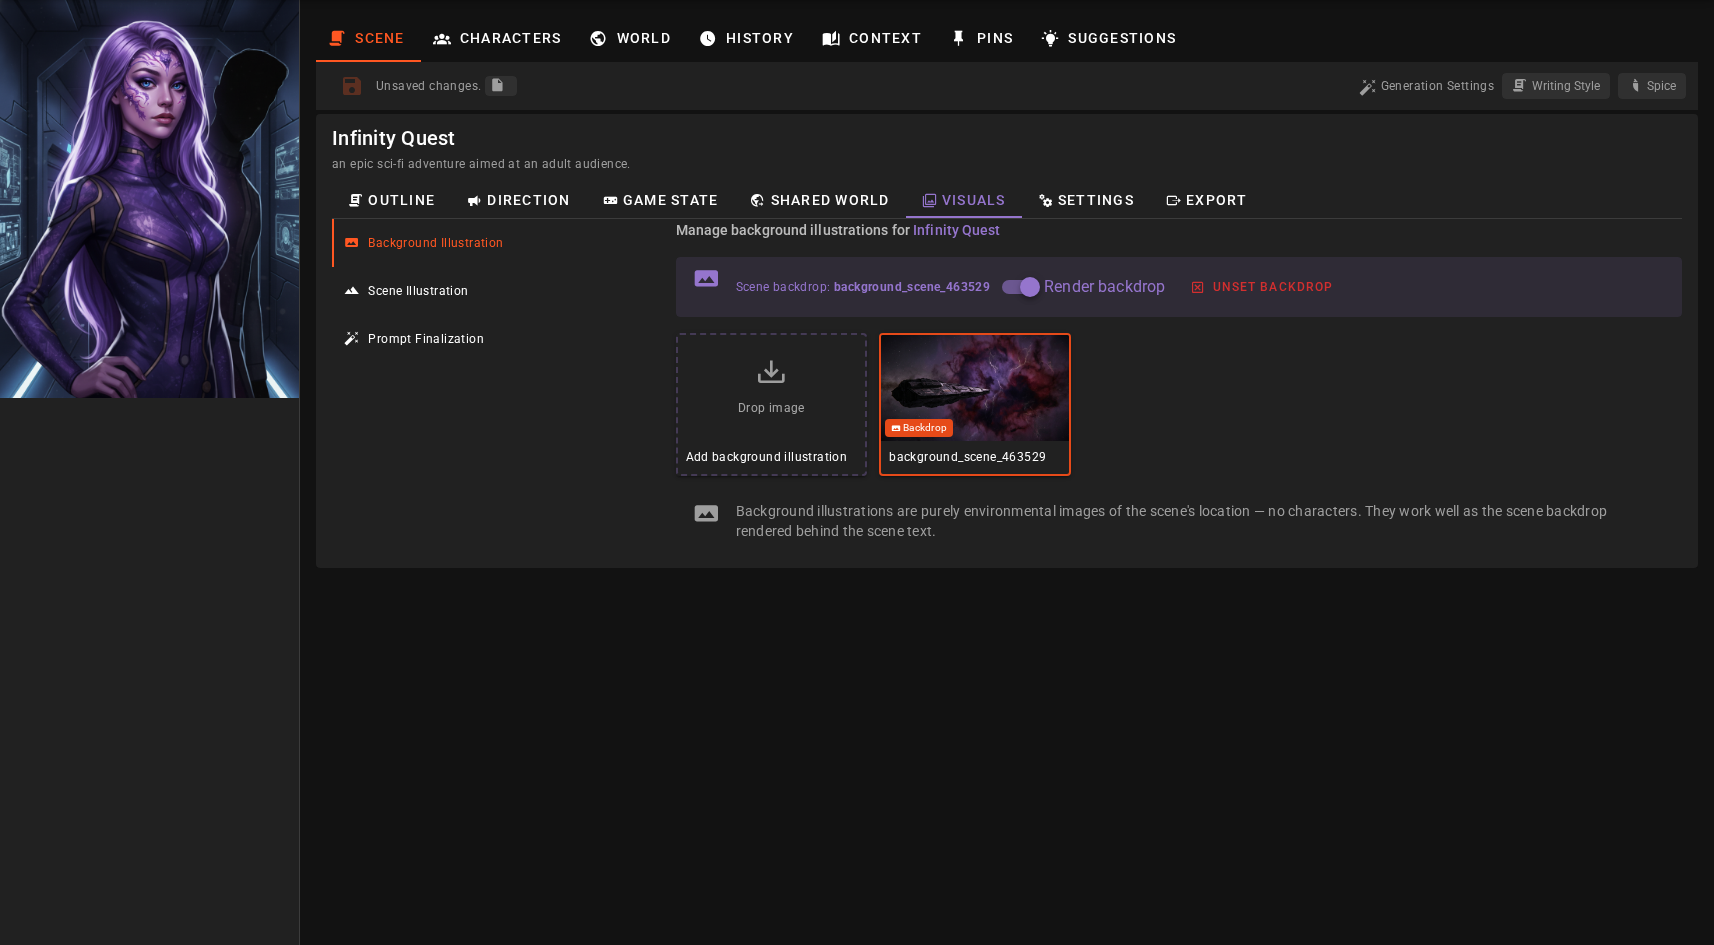
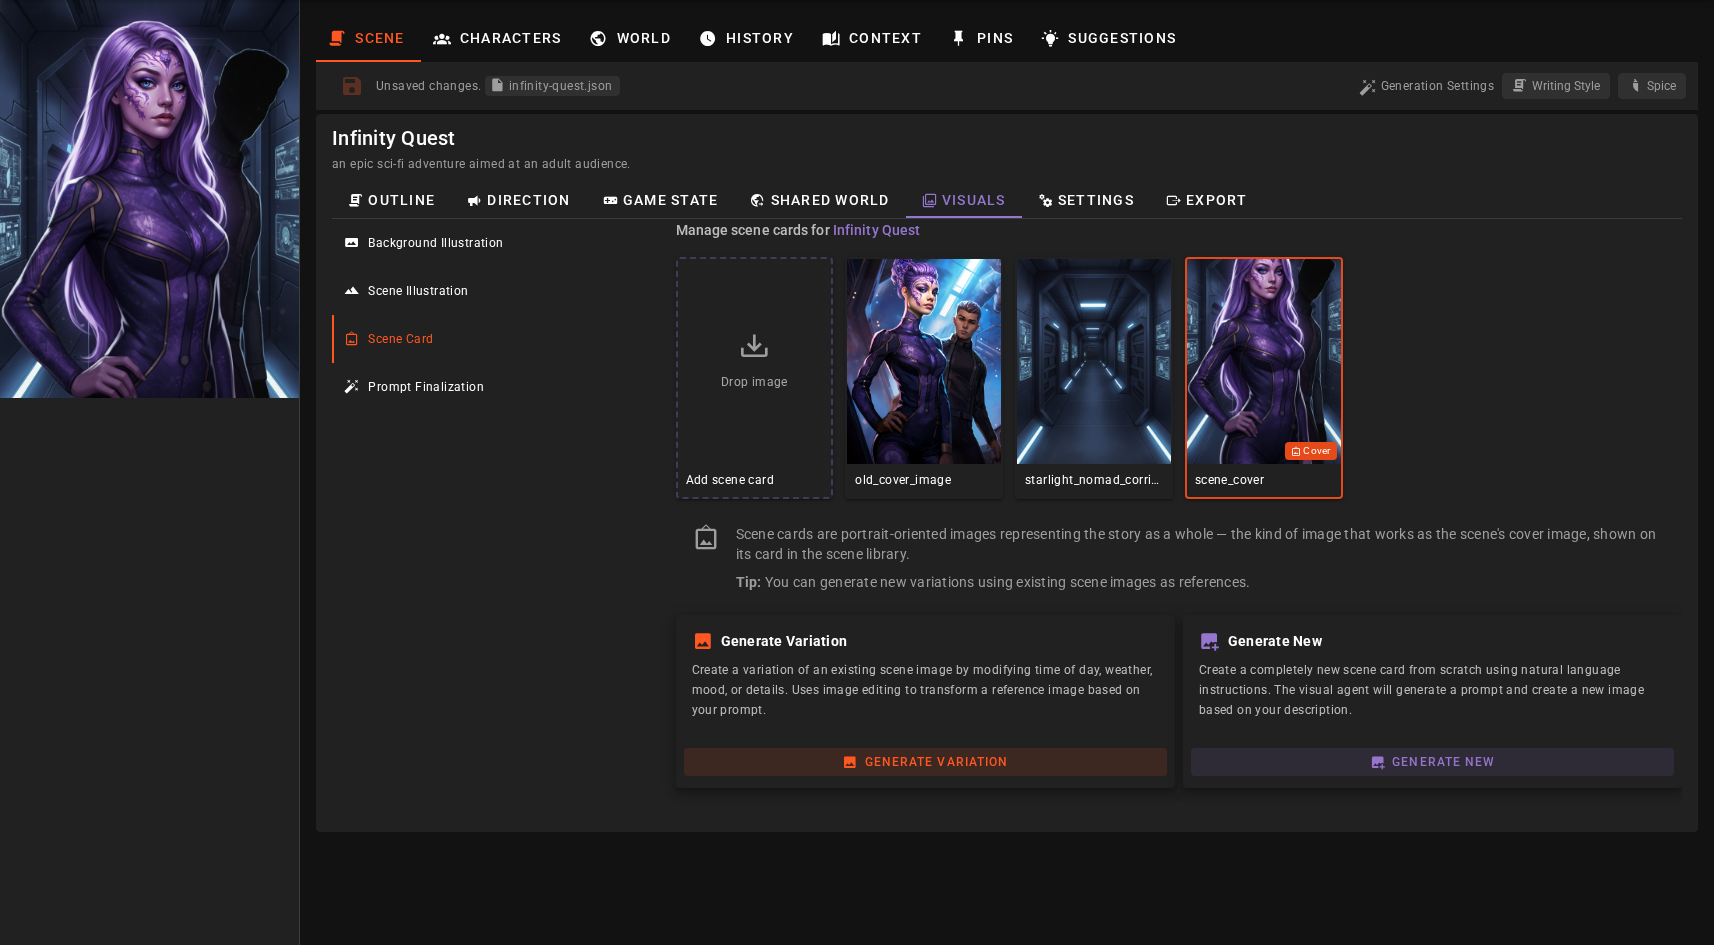
Scene Card sub-tab in the scene visuals manager (issue #317) (#318)
* Add a Scene Card sub-tab to the scene visuals manager (issue #317)

* Mirror the Scene Card amendment into the rendered 0.39.0 release notes; review nits

diff --git a/talemate_frontend/src/components/WorldStateManagerSceneVisualsAssets.vue b/talemate_frontend/src/components/WorldStateManagerSceneVisualsAssets.vue
@@ -7,7 +7,7 @@
         </div>
 
         <v-alert
-            v-if="backdropAssetId"
+            v-if="typeConfig.offersSetBackdrop && backdropAssetId"
             icon="mdi-image-area"
             density="compact"
             variant="tonal"
@@ -44,7 +44,7 @@
 
         <VisualAssetGrid
             :assets="assets"
-            aspect="landscape"
+            :aspect="typeConfig.aspect"
             :drop-label="`Add ${typeConfig.label}`"
             :is-dragging="isDragging"
             :get-src="getAssetSrc"
@@ -74,7 +74,7 @@
                     <v-list-item-title>Set as Scene Cover Image</v-list-item-title>
                 </v-list-item>
                 <v-list-item
-                    v-if="backdropAssetId !== asset.id"
+                    v-if="typeConfig.offersSetBackdrop && backdropAssetId !== asset.id"
                     @click="setBackdrop({ assetId: asset.id })"
                 >
                     <template v-slot:prepend>
@@ -83,7 +83,7 @@
                     <v-list-item-title>Set as Scene Backdrop</v-list-item-title>
                 </v-list-item>
                 <v-list-item
-                    v-else
+                    v-else-if="backdropAssetId === asset.id"
                     @click="setBackdrop({ clear: true })"
                 >
                     <template v-slot:prepend>
@@ -151,7 +151,7 @@
             :reference-asset-ids="referenceAssetIds"
             :assets-map="assetsMap"
             :base64-by-id="base64ById"
-            aspect="landscape"
+            :aspect="typeConfig.aspect"
             :is-generating="isGenerating"
             :can-generate="canGenerate"
             no-references-text="No reference images available for this scene."
@@ -218,14 +218,23 @@ import VisualAssetGenerateDialog from './VisualAssetGenerateDialog.vue';
 import VisualAssetGenerateNewDialog from './VisualAssetGenerateNewDialog.vue';
 import { VIS_TYPE, FORMAT_TYPE, GEN_TYPE } from '@/constants/visual';
 
-// Per-vis-type copy and naming. Both scene illustration types share the
-// same landscape-oriented management UX; only the wording differs.
+// VisualAssetGrid's aspect keys are a lowercase alias of FORMAT_TYPE; deriving
+// one from the other keeps a type's grid and its generation format in step.
+const FORMAT_TO_ASPECT = {
+    [FORMAT_TYPE.LANDSCAPE]: 'landscape',
+    [FORMAT_TYPE.PORTRAIT]: 'portrait',
+    [FORMAT_TYPE.SQUARE]: 'square',
+};
+
+// Per-vis-type copy, layout and naming for the scene image sub-tabs.
 const TYPE_CONFIG = {
     [VIS_TYPE.SCENE_BACKGROUND]: {
         label: 'background illustration',
         pluralLabel: 'background illustrations',
         namePrefix: 'background',
         icon: 'mdi-image-area',
+        format: FORMAT_TYPE.LANDSCAPE,
+        offersSetBackdrop: true,
         description: 'Background illustrations are purely environmental images of the scene\'s location — no characters. They work well as the scene backdrop rendered behind the scene text.',
         generateHint: 'Describe the environment, e.g., a moonlit forest clearing with ancient stones',
     },
@@ -234,8 +243,22 @@ const TYPE_CONFIG = {
         pluralLabel: 'scene illustrations',
         namePrefix: 'illustration',
         icon: 'mdi-image-filter-hdr',
+        format: FORMAT_TYPE.LANDSCAPE,
+        offersSetBackdrop: true,
         description: 'Scene illustrations depict the current moment of the scene and may include characters. They are ideal for illustrating key story beats.',
         generateHint: 'Describe the moment, e.g., the party gathered around the campfire at dusk',
+    },
+    [VIS_TYPE.SCENE_CARD]: {
+        label: 'scene card',
+        pluralLabel: 'scene cards',
+        namePrefix: 'card',
+        icon: 'mdi-image-frame',
+        format: FORMAT_TYPE.PORTRAIT,
+        // a UI choice, not a backend rule — an asset of any type can be made
+        // the backdrop elsewhere, which is why Unset below stays un-gated
+        offersSetBackdrop: false,
+        description: 'Scene cards are portrait-oriented images representing the story as a whole — the kind of image that works as the scene\'s cover image, shown on its card in the scene library.',
+        generateHint: 'Describe the cover image, e.g., a lone airship drifting over a storm-lit mountain range',
     },
 };
 
@@ -270,7 +293,8 @@ export default {
     },
     computed: {
         typeConfig() {
-            return TYPE_CONFIG[this.visType];
+            const config = TYPE_CONFIG[this.visType];
+            return { ...config, aspect: FORMAT_TO_ASPECT[config.format] };
         },
         sceneTitle() {
             return this.scene?.title || this.scene?.name || 'the scene';
@@ -280,14 +304,10 @@ export default {
                 .filter(([, asset]) => asset?.meta?.vis_type === this.visType)
                 .map(([id, asset]) => ({ id, ...asset }));
         },
-        // Same-type assets first, then the other scene-level vis types, so a
+        // Same-type assets first, then the other types managed here, so a
         // variation can be started even before any image of this type exists.
         referenceAssetIds() {
-            const sceneVisTypes = [
-                VIS_TYPE.SCENE_BACKGROUND,
-                VIS_TYPE.SCENE_ILLUSTRATION,
-                VIS_TYPE.SCENE_CARD,
-            ].filter(v => v !== this.visType);
+            const sceneVisTypes = Object.keys(TYPE_CONFIG).filter(v => v !== this.visType);
             const sameType = this.assets.map(a => a.id);
             const otherTypes = Object.entries(this.assetsMap)
                 .filter(([, asset]) => sceneVisTypes.includes(asset?.meta?.vis_type))
@@ -352,7 +372,7 @@ export default {
         },
 
         openGenerateDialog() {
-            if (this.backdropAssetId && this.referenceAssetIds.includes(this.backdropAssetId)) {
+            if (this.typeConfig.offersSetBackdrop && this.backdropAssetId && this.referenceAssetIds.includes(this.backdropAssetId)) {
                 this.selectedReferenceAssetId = this.backdropAssetId;
             } else {
                 this.selectedReferenceAssetId = this.referenceAssetIds[0] || null;
@@ -387,7 +407,7 @@ export default {
                 negative_prompt: null,
                 vis_type: this.visType,
                 gen_type: GEN_TYPE.IMAGE_EDIT,
-                format: FORMAT_TYPE.LANDSCAPE,
+                format: this.typeConfig.format,
                 reference_assets: [this.selectedReferenceAssetId],
                 inline_reference: null,
             };

diff --git a/talemate_frontend/src/components/WhatsNew.vue b/talemate_frontend/src/components/WhatsNew.vue
@@ -130,7 +130,7 @@ export default {
                         },
                         {
                             "title": "Scene Visual Manager",
-                            "description": "World Editor → Scene gains a Visuals tab mirroring the character visual manager: browse, upload, generate (single or batch, new or as variations of a reference image), and delete the scene's background and scene illustrations, set the scene cover image, and set or fully unset the scene backdrop. A Prompt Finalization sub-tab edits the Visualizer agent's per-scene prompt finalization overrides."
+                            "description": "World Editor → Scene gains a Visuals tab mirroring the character visual manager: browse, upload, generate (single or batch, new or as variations of a reference image), and delete the scene's background illustrations, scene illustrations and scene cards, set the scene cover image, and set or fully unset the scene backdrop (the Scene Card sub-tab is portrait and offers no set-backdrop action). A Prompt Finalization sub-tab edits the Visualizer agent's per-scene prompt finalization overrides."
                         },
                         {
                             "title": "Visual Prompt Finalization",

diff --git a/talemate_frontend/src/components/WorldStateManagerSceneVisuals.vue b/talemate_frontend/src/components/WorldStateManagerSceneVisuals.vue
@@ -8,6 +8,9 @@
                 <v-tab value="illustration" class="text-caption" prepend-icon="mdi-image-filter-hdr">
                     Scene Illustration
                 </v-tab>
+                <v-tab value="card" class="text-caption" prepend-icon="mdi-image-frame">
+                    Scene Card
+                </v-tab>
                 <v-tab value="finalizers" class="text-caption" prepend-icon="mdi-auto-fix">
                     Prompt Finalization
                 </v-tab>
@@ -27,6 +30,15 @@
                 v-else-if="tab === 'illustration'"
                 ref="illustration"
                 :vis-type="VIS_TYPE.SCENE_ILLUSTRATION"
+                :scene="scene"
+                :visual-agent-ready="visualAgentReady"
+                :image-edit-available="imageEditAvailable"
+                :image-create-available="imageCreateAvailable"
+            />
+            <WorldStateManagerSceneVisualsAssets
+                v-else-if="tab === 'card'"
+                ref="card"
+                :vis-type="VIS_TYPE.SCENE_CARD"
                 :scene="scene"
                 :visual-agent-ready="visualAgentReady"
                 :image-edit-available="imageEditAvailable"

diff --git a/docs/user-guide/world-editor/scene/visuals.md b/docs/user-guide/world-editor/scene/visuals.md
@@ -1,24 +1,25 @@
 # Scene Visuals
 
-The **Visuals** tab in the Scene Editor provides a dedicated interface for managing the scene's own imagery — background illustrations, scene illustrations, the scene cover image, and the [scene backdrop](/talemate/user-guide/inline-visuals/#scene-backdrop) — mirroring the [character visual manager](/talemate/user-guide/world-editor/characters/visuals).
+The **Visuals** tab in the Scene Editor provides a dedicated interface for managing the scene's own imagery — background illustrations, scene illustrations, scene cards, the scene cover image, and the [scene backdrop](/talemate/user-guide/inline-visuals/#scene-backdrop) — mirroring the [character visual manager](/talemate/user-guide/world-editor/characters/visuals).
 
 To access it, open the :material-earth-box: **World Editor**, navigate to the :material-script: **Scene** tab, and click the :material-image-multiple-outline: **Visuals** tab.
 
-![Scene editor Visuals tab overview](/talemate/img/0.39.0/world-editor-scene-visuals-overview.png)
+![Scene editor Visuals tab, Scene Card sub-tab](/talemate/img/0.39.0/world-editor-scene-visuals-overview.png)
 
 ## Overview
 
-The Visuals tab is organized into three sub-tabs:
+The Visuals tab is organized into four sub-tabs:
 
 - **:material-image-area: Background Illustration** - Purely environmental images of the scene ("Visualize Scene (Background)")
 - **:material-image-filter-hdr: Scene Illustration** - Images of specific moments in the story ("Visualize Moment")
+- **:material-image-frame: Scene Card** - Portrait images representing the story as a whole ("Visualize Scene (Card)"), the ones you pick the scene cover image from
 - **:material-auto-fix: Prompt Finalization** - Edit the Visualizer agent's per-scene prompt finalization overrides
 
-## Background Illustration & Scene Illustration
+## Background Illustration, Scene Illustration & Scene Card
 
-Both image sub-tabs work the same way and differ only in the visual type they manage. Each shows a grid of the scene's images of that type — badges mark the image currently used as the scene **Cover** and the current **Backdrop**.
+The three image sub-tabs work the same way and differ only in the visual type they manage. Each shows a grid of the scene's images of that type — badges mark the image currently used as the scene **Cover** and the current **Backdrop**. Background illustrations and scene illustrations are landscape images, scene cards are portrait ones.
 
-When a backdrop is set, a banner above the grid names the backdrop image, offers a **Render backdrop** switch (the same toggle as the scene tools **Immersive** chip), and an **Unset backdrop** button that removes the backdrop entirely while keeping the image in the scene assets.
+When a backdrop is set, a banner above the grid names the backdrop image, offers a **Render backdrop** switch (the same toggle as the scene tools **Immersive** chip), and an **Unset backdrop** button that removes the backdrop entirely while keeping the image in the scene assets. The backdrop is meant for the landscape types, so the Scene Card sub-tab shows neither the banner nor the **Set as Scene Backdrop** action.
 
 ### Adding images
 
@@ -33,7 +34,7 @@ Generation requires a ready [Visualizer Agent](/talemate/user-guide/agents/visua
 Click an image to access its menu:
 
 - **Set as Scene Cover Image**: Make this the scene's cover image (shown on the scene card in the scene directory)
-- **Set as Scene Backdrop** / **Unset Scene Backdrop**: Make this image the [scene backdrop](/talemate/user-guide/inline-visuals/#scene-backdrop), rendered behind the scene text — or unset it (the image stays in the scene assets)
+- **Set as Scene Backdrop** / **Unset Scene Backdrop**: Make this image the [scene backdrop](/talemate/user-guide/inline-visuals/#scene-backdrop), rendered behind the scene text — or unset it (the image stays in the scene assets). Setting is offered on the two illustration sub-tabs; unsetting is offered wherever the current backdrop image appears
 - **View Image**: Open a larger preview
 - **Open in Visual Library**: View and edit the image in the full [Visual Library](/talemate/user-guide/agents/visualizer/visual-library)
 - **Delete**: Permanently remove the image from the scene assets

diff --git a/CHANGELOG.md b/CHANGELOG.md
@@ -48,7 +48,7 @@ An optional Auto Backdrop setting promotes newly generated scene backgrounds and
 
 ### Scene Visual Manager
 
-World Editor → Scene gains a Visuals tab mirroring the character visual manager: browse, upload, generate (single or batch, new or as variations of a reference image), and delete the scene's background and scene illustrations, set the scene cover image, and set or fully unset the scene backdrop. A Prompt Finalization sub-tab edits the Visualizer agent's per-scene prompt finalization overrides.
+World Editor → Scene gains a Visuals tab mirroring the character visual manager: browse, upload, generate (single or batch, new or as variations of a reference image), and delete the scene's background illustrations, scene illustrations and scene cards, set the scene cover image, and set or fully unset the scene backdrop (the Scene Card sub-tab is portrait and offers no set-backdrop action). A Prompt Finalization sub-tab edits the Visualizer agent's per-scene prompt finalization overrides.
 
 ### Visual Prompt Finalization
 
